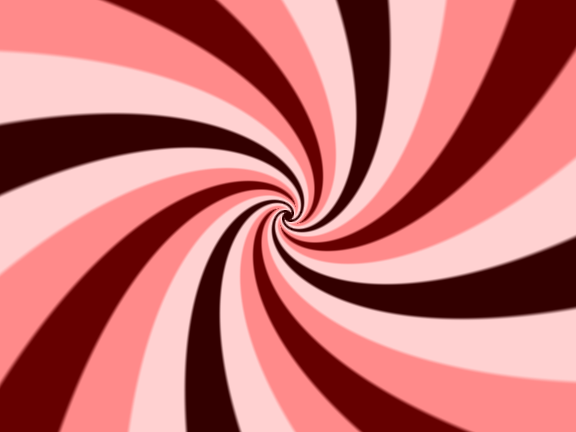
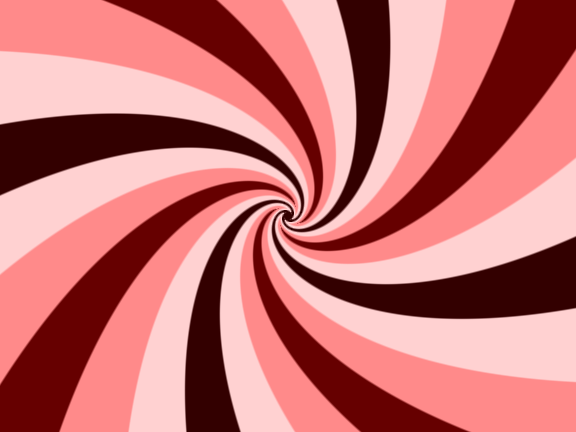
new previews

diff --git a/docs/src/home-shaders.ts b/docs/src/home-shaders.ts
@@ -88,7 +88,7 @@ export const homeShaders = [
     url: '/grain-gradient',
     ShaderComponent: GrainGradient,
     image: grainGradientImg,
-    shaderConfig: { ...grainGradientPresets[0].params, frame: 6000, speed: 2 },
+    shaderConfig: { ...grainGradientPresets[0].params, frame: 7000, speed: 2 },
   },
   {
     name: 'mesh gradient',
@@ -172,7 +172,7 @@ export const homeShaders = [
     url: '/perlin-noise',
     ShaderComponent: PerlinNoise,
     image: perlinNoiseImg,
-    shaderConfig: { ...perlinNoisePresets[0].params, scale: 1, speed: 0.2 },
+    shaderConfig: { ...perlinNoisePresets[0].params, scale: 0.8, speed: 0.2 },
   },
   {
     name: 'simplex noise',
@@ -186,7 +186,7 @@ export const homeShaders = [
     url: '/voronoi',
     ShaderComponent: Voronoi,
     image: voronoiImg,
-    shaderConfig: { ...voronoiPresets[0].params, scale: 0.4 },
+    shaderConfig: { ...voronoiPresets[0].params, scale: 0.35 },
   },
   {
     name: 'pulsing border',

diff --git a/packages/shaders-react/src/shaders/liquid-metal.tsx b/packages/shaders-react/src/shaders/liquid-metal.tsx
@@ -20,15 +20,15 @@ export const defaultPreset: LiquidMetalPreset = {
   name: 'Default',
   params: {
     ...defaultObjectSizing,
-    scale: 2.2,
+    scale: 0.7,
     speed: 1,
-    frame: 0,
-    colorBack: '#00042e',
-    colorTint: '#5b4dc7',
-    softness: 0.45,
+    frame: 8000,
+    colorBack: '#000000',
+    colorTint: '#ffffff',
+    softness: 0.3,
     repetition: 4,
-    shiftRed: -0.5,
-    shiftBlue: -1,
+    shiftRed: 0.3,
+    shiftBlue: 0.3,
     distortion: 0.1,
     contour: 1,
     shape: 'circle',

diff --git a/packages/shaders-react/src/shaders/grain-gradient.tsx b/packages/shaders-react/src/shaders/grain-gradient.tsx
@@ -25,9 +25,9 @@ export const defaultPreset: GrainGradientPreset = {
     frame: 0,
     colorBack: '#000000',
     colors: ['#7300ff', '#eba8ff', '#00bfff', '#2a00ff'],
-    softness: 0.4,
-    intensity: 0.35,
-    noise: 0.35,
+    softness: 0.5,
+    intensity: 0.5,
+    noise: 1,
     shape: 'corners',
   },
 };

diff --git a/packages/shaders-react/src/shaders/perlin-noise.tsx b/packages/shaders-react/src/shaders/perlin-noise.tsx
@@ -24,9 +24,9 @@ export const defaultPreset: PerlinNoisePreset = {
     colorBack: '#632ad5',
     colorFront: '#fccff7',
     proportion: 0.45,
-    softness: 0,
+    softness: 0.1,
     octaveCount: 1,
-    persistence: 0.5,
+    persistence: 1,
     lacunarity: 3.5,
   },
 };

diff --git a/packages/shaders-react/src/shaders/swirl.tsx b/packages/shaders-react/src/shaders/swirl.tsx
@@ -25,7 +25,7 @@ export const defaultPreset: SwirlPreset = {
     colors: ['#ffd1d1', '#ff8a8a', '#660000'],
     bandCount: 4,
     twist: 0.1,
-    softness: 0.05,
+    softness: 0,
     noiseFrequency: 0.1,
     noisePower: 0.1,
   },
